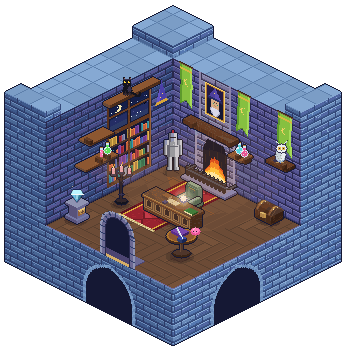
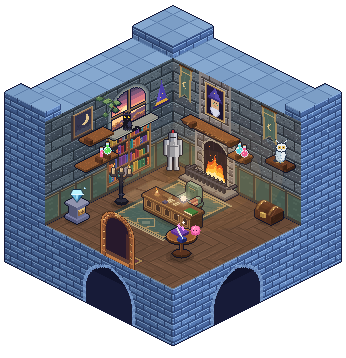
Restyle the main tower room to match Oakhaven Castle

Changed region(s): [[0.1156, 0.1536, 0.8671, 0.7682]]

diff --git a/src/game/scene.js b/src/game/scene.js
@@ -205,11 +205,11 @@ function brickFn(p, bw = 14, bh = 6) {
     return c;
   };
 }
-const palInL = { mortar: '#26274a', c: ['#3f437f', '#464b88', '#4d5393'], hi: '#5d63a3', lo: '#363a70' };
-const palInR = { mortar: '#2b2b52', c: ['#4d4a86', '#55528f', '#5e5a98'], hi: '#6f6ba8', lo: '#403d78' };
-const palChim = { mortar: '#3a3558', c: ['#6c668e', '#7a749a', '#837da3'], hi: '#9791b5', lo: '#58527a' };
+const palInL = { mortar: '#242d36', c: ['#3d4855', '#485460', '#515f6a'], hi: '#667480', lo: '#323e4a' };
+const palInR = { mortar: '#2a2e35', c: ['#4b5059', '#555d66', '#5e666e'], hi: '#727e86', lo: '#3a424d' };
+const palChim = { mortar: '#3e3636', c: ['#686266', '#797377', '#827c7e'], hi: '#a09897', lo: '#545055' };
 const palOut = { mortar: '#2e4472', c: ['#456296', '#4f70a4', '#5a7cb0'], hi: '#7da0cd', lo: '#3a5586' };
-const brL = brickFn(palInL), brR = brickFn(palInR), brC = brickFn(palChim);
+const brL = brickFn(palInL, 22, 10), brR = brickFn(palInR, 22, 10), brC = brickFn(palChim, 12, 7);
 const brOutL = brickFn(scalePal(palOut, .88)), brOutR = brickFn(scalePal(palOut, 1.08));
 const brOut = brickFn(palOut);
 
@@ -240,26 +240,23 @@ function shadedTowerFloor(a, b) {
   // Hetzelfde kruis als in het glas, geprojecteerd vanaf de linkerwand.
   const u = 44 + 2 * (b - 24 + a * .33);
   const z = 60 + (a - 4) * .85;
-  const inGlass = u >= 24 && u < 64 && z >= 60 && z < 90;
-  const frame = u >= 43 && u < 45 || z >= 74 && z < 76;
-  const sunset = inGlass && !frame ? .19 * (1 - a / 44) : 0;
+  const sunset = towerWindowGlass(u, z) ? .24 * (1 - a / 44) : 0;
   return tintFloor(color, 1 - (1 - shade) * .72, sunset);
 }
 
 function floorFn(a, b) {
-  if (a >= 12 && a < 30 && b >= 4 && b < 40) {                 // tapijt
-    const la = a - 12, lb = b - 4;
-    if (b >= 38.8) return (Math.floor(la * 1.5) & 1) ? '#e8d9a0' : '#bda86a';      // franje
-    if (la < 1.2 || la > 16.8) return '#5b1221';
-    if (la < 2 || la > 16) return '#d6a83c';
-    if (la < 3 || la > 15) return lb % 4 < 1 ? '#c99054' : '#862333';
-    if (lb < 1.2 || lb >= 33.5) return '#a97643';
-    const d = Math.abs(((lb % 8) + 8) % 8 - 4) + Math.abs(la - 9);
-    if (d < 3.2) return '#c43a4a';
-    if (d < 4.2) return '#7d1a28';
-    return hash(Math.floor(a * 2), Math.floor(b * 2)) > .9 ? '#a82838' : '#9c2030';
+  if (a >= 10 && a < 37 && b >= 7 && b < 42) {
+    const edge = Math.min(a - 10, 37 - a, b - 7, 42 - b);
+    if (b < 8.2 || b >= 40.8) return Math.floor(a * 2) % 2 ? '#baa47c' : '#8b795d';
+    if (edge < 1.4) return '#3c4441';
+    if (edge < 2.15) return '#ad9160';
+    if (edge < 3.25) return (Math.floor(a * 2) + Math.floor(b * 2)) % 5 === 0 ? '#a0845d' : '#596455';
+    const diamond = Math.abs(a - 23.5) + Math.abs((b - 7) % 12 - 6);
+    if (Math.abs(diamond - 4.25) < .45) return '#ae9468';
+    if (diamond < 2) return '#758171';
+    return hash(Math.floor(a * 2), Math.floor(b * 2)) > .81 ? '#53685f' : '#4b625a';
   }
-  if (b >= N - .8 || a >= N - .8) return '#6a6aa0';  // voorrand
+  if (b >= N - .8 || a >= N - .8) return '#747e87';
   const width = 4, length = 4;
   const column = Math.floor(a / width), row = Math.floor(b / width);
   const phase = (column + row) % (length * 2);
@@ -301,8 +298,8 @@ function facadeFn(br, span) {
 }
 
 /* ---------- hout / boekenkast / raam ---------- */
-const woodEdge = (u, z) => (z >= 90 || (u === 22 && z > 6)) ? '#9a6038' : (hash(u, 3) > .8 ? '#6a3c22' : '#5c331d');
-const woodMid = (u, z) => (hash(u >> 1, z) > .85 ? '#744327' : '#66391f');
+const woodEdge = (u, z) => (u === 22 || z === 7) ? '#9b704c' : (hash(u, z >> 2) > .8 ? '#755138' : '#674630');
+const woodMid = (u, z) => (hash(u >> 1, z) > .85 ? '#835c3f' : '#6f4b34');
 const bookCols = ['#8c2f39', '#2f6e4f', '#3b4f9a', '#b08a3a', '#6a3a8a', '#c0603a', '#2a7a8a', '#7a7a8e'];
 const bookRows = [];
 for (let r = 0; r < 4; r++) {
@@ -317,10 +314,13 @@ for (let r = 0; r < 4; r++) {
 }
 function bookFn(u, z) {
   const r = Math.floor((z - 8) / 12), lz = (z - 8) - r * 12;
-  if (lz < 2) return '#5a3320';
+  if (lz < 2) return lz === 1 ? '#966846' : '#62412e';
   const b = bookRows[r] && bookRows[r][u];
-  if (b && lz - 2 < b.h) return b.first ? sh(b.c, 1.3) : ((lz - 2) === b.h - 1 ? sh(b.c, 1.2) : b.c);
-  return '#1d1830';
+  if (b && lz - 2 < b.h) {
+    if (!b.first && (lz === 4 || lz === b.h) && hash(u >> 1, r) > .65) return '#af8f62';
+    return b.first || lz === b.h + 1 ? sh(b.c, 1.14) : sh(b.c, .84);
+  }
+  return '#28262c';
 }
 function hatFn(u, z) {
   const hu = u - 11;
@@ -336,26 +336,51 @@ function hatFn(u, z) {
   if (z === 87 && hu === 0) return '#222';
   return null;
 }
+
+function towerWindowArch(u, z) {
+  return Math.hypot(u - 44, Math.max(0, z - 76));
+}
+
+function towerWindowCross(u, z) {
+  return u >= 43 && u < 45 || z >= 72 && z < 74;
+}
+
+function towerWindowGlass(u, z) {
+  return z >= 60 && towerWindowArch(u, z) < 18 && !towerWindowCross(u, z);
+}
+
+function towerPanel(u, z) {
+  if (z >= 28) return null;
+  if (z < 3 || z === 25 || z >= 27 || u % 16 < 2) return '#433d36';
+  if (z === 26 || u % 16 === 2) return '#766b53';
+  return hash(u >> 2, z >> 1) > .86 ? '#4e6257' : '#46594f';
+}
+
 function leftFn(u, z) {
-  if (u >= 22 && u < 66 && z >= 6 && z < 92) {
-    if (u < 24 || u >= 64 || z < 8 || z >= 90) return woodEdge(u, z);
-    if (z >= 56 && z < 60) return woodMid(u, z);
-    if (z >= 60) {
-      if ((u >= 43 && u < 45) || (z >= 74 && z < 76)) return woodMid(u, z);
-      return null;                                  // glas (hier komt de hemel doorheen)
+  if (z >= 60) {
+    const arch = towerWindowArch(u, z);
+    if (arch < 18) return towerWindowCross(u, z) ? (u === 43 || z === 73 ? '#967852' : '#614832') : null;
+    if (arch < 22) {
+      if (arch >= 21 || z % 7 === 0 && z <= 76) return '#35404a';
+      if (arch < 19) return '#8e928a';
+      return arch >= 20 ? '#606d76' : '#717f86';
     }
+  }
+  if (u >= 22 && u < 66 && z >= 6 && z < 60) {
+    if (u < 24 || u >= 64 || z < 8) return woodEdge(u, z);
+    if (z >= 56 && z < 60) return woodMid(u, z);
     if (u >= 43 && u < 45) return woodMid(u, z);
     return bookFn(u, z);
   }
   const h = hatFn(u, z); if (h) return h;
-  return towerWallStone(brL, u, z);
+  return towerPanel(u, z) ?? towerWallStone(brL, u, z);
 }
 
 /* ---------- haard / schoorsteen / portret ---------- */
 const soot = (u, z) => (((u + (((z >> 3) & 1) * 4)) % 8 === 0) ? '#221829' : '#17111f');
 function portraitFn(u, z) {
   if (u < 34 || u >= 50 || z < 66 || z >= 94)
-    return (u === 32 || u === 51 || z === 64 || z === 95) ? '#f3cf6a' : '#b17a24';
+    return (u === 32 || u === 51 || z === 64 || z === 95) ? '#caaa72' : '#8d6744';
   const pu = u - 34, pz = z - 66, cx = 7.5, d = Math.abs(pu - cx);
   if (pz >= 18 && pz < 28) {
     const hw = (27.5 - pz) * .55 + .5;
@@ -370,22 +395,23 @@ function portraitFn(u, z) {
   return pz > 14 ? '#241a44' : '#1a1330';
 }
 const fireOpen = (u, z) => {
-  if (u < 30 || u >= 54 || z >= 40) return false;
-  const du = Math.abs(u - 42), zm = du <= 8 ? 40 : 40 - (du - 8) * 2.5;
-  return z < zm;
+  return Math.hypot(u - 42, Math.max(0, z - 28)) < 12;
 };
 function rightFn(u, z) {
   if (fireOpen(u, z)) return soot(u, z);
   if (u >= 22 && u < 62 && z < 54) {
-    if (u < 24 || u >= 60 || z >= 52) return '#9a94b8';
+    if (u < 24 || u >= 60 || z >= 52) return '#96908b';
+    if (fireOpen(u + 2, z) || fireOpen(u - 2, z) || fireOpen(u, z - 2)) {
+      return (u + z) % 7 === 0 ? '#4c4546' : '#a49a8d';
+    }
     return brC(u, z);
   }
   if (u >= 26 && u < 58 && z >= 54) {
     if (u >= 32 && u < 52 && z >= 64 && z < 96) return portraitFn(u, z);
-    if (u < 28 || u >= 56) return '#8c86ac';
+    if (u < 28 || u >= 56) return '#888280';
     return brC(u, z);
   }
-  return towerWallStone(brR, u, z);
+  return towerPanel(u, z) ?? towerWallStone(brR, u, z);
 }
 
 function towerWallStone(brick, u, z) {
@@ -2227,6 +2253,10 @@ function buildStatic(sg, room, doorStyle) {
   if (room !== rooms.hall) box(sg, -T, depth - 8, WH, T, 8, 10, mer);
   wallR(sg, depth, -2 * T, 2 * width, -F, WH, facadeFn(brOutL, width));
   wallL(sg, width, openHallEntrance ? 0 : -2 * T, 2 * depth, -F, WH, facadeFn(brOutR, depth));
+  if (room === rooms.tower) {
+    drawWallIvy(sg, [[0, 32.5, 21]]);
+    drawFramedPaintings(sg, [[wallL, [[80, 72, 20, 24, 'moon', ['#b6956a', '#856348', '#574337']]]]]);
+  }
   if (library) {
     drawReadingWindow(sg);
     box(sg, 0, 33, 26, 4, 21, 2.5, woodC('#89654c'));
@@ -2297,12 +2327,19 @@ function buildFront() {
   const iron = flat('#4a4a5a', '#2e2e3c', '#222230');
 
   // haard
-  box(g, 10, 0, 0, 22, 6, 2, flat('#8d88b0', '#6c678f', '#58537a'));
+  const hearthStone = flat('#908882', '#72676a', '#605b60');
+  box(g, 9.5, 0, 0, 23, 6.5, 1.2, flat('#6e6664', '#544c50', '#493f48'));
+  box(g, 10, 0, 1.2, 22, 6, .8, hearthStone);
+  for (const a of [14, 20, 26]) line(g, ...P(a, 4.5, 2), ...P(a, 6, 2), '#65585a');
   // schoorsteenmantel + consoles
   box(g, 9, 0, 52, 24, 4, 4, woodD);
   box(g, 8.75, 0, 55, 24.5, 4.5, 1, wood);
   wallR(g, 4, 18, 66, 52, 54, (u, z) =>
     z === 53 && hash(u >> 1, z) > .32 ? '#a67448' : '#503123');
+  for (const a of [11, 21, 31]) {
+    const [x, y] = P(a, 4.1, 53);
+    dot(g, x, y, '#b48757');
+  }
   box(g, 10.5, 0, 48, 1.6, 2.5, 4, woodD); box(g, 29.5, 0, 48, 1.6, 2.5, 4, woodD);
 
   // ijzeren haardscherm
@@ -2409,7 +2446,8 @@ function buildFront() {
   [x, y] = P(2.6, 38.4, 46); flask(g, x, y, '#ff6fa8', 'tube');
 
   // Vensterbank en tussenplank voor de kat.
-  box(g, 0, 10, 92, 3.5, 25, 3, wood);
+  box(g, 0, 11, 58, 3.5, 22, 2, flat('#9c998e', '#696b68', '#7c817c'));
+  line(g, ...P(3.55, 12, 60), ...P(3.55, 32, 60), '#b4ad98');
   box(g, 0, 35, 68, 5.5, 12, 2, wood);
   box(g, 0, 43, 64, 3, 1.5, 4, woodD);
 
@@ -2424,10 +2462,10 @@ function buildFront() {
     rect(g, bx - 1, by - 24, 2, 22, '#23232f'); dot(g, bx + 1, by - 20, '#3c3c4e'); ell(g, bx, by - 8, 2, 1, '#3c3c4e');
     line(g, bx, by - 22, bx - 8, by - 28, '#23232f'); line(g, bx, by - 22, bx + 8, by - 28, '#23232f');
     line(g, bx, by - 22, bx, by - 30, '#23232f');
-    for (const [dx, ty] of [[-8, by - 28], [0, by - 30], [8, by - 28]]) {
+    for (const [dx, ty, height, lit] of [[-8, by - 28, 6, true], [0, by - 30, 4, false], [8, by - 28, 5, true]]) {
       rect(g, bx + dx - 2, ty, 5, 2, '#2c2c3a');
-      rect(g, bx + dx - 1, ty - 6, 3, 6, '#e9a4b8'); dot(g, bx + dx - 1, ty - 6, '#fbd0dc'); dot(g, bx + dx + 1, ty - 3, '#c9708a');
-      cand.push([bx + dx, ty - 7]);
+      drawHallCandleWax(g, bx + dx, ty, height);
+      if (lit) cand.push([bx + dx, ty - height - 2]);
     } }
 
   store(40, t => {
@@ -2678,7 +2716,7 @@ function drawLibraryLights(t, lanterns = libraryLanterns) {
 /* ---------- animaties ---------- */
 // Zelfde herfstlucht als in het leesraam en de potionkamer.
 function drawSky() {
-  wallL(ctx, 0, 24, 64, 60, 90, (u, z) => autumnSunset(u + 1, (z - 60) / 29));
+  wallL(ctx, 0, 26, 62, 60, 94, (u, z) => towerWindowGlass(u, z) ? autumnSunset(u + 1, (z - 60) / 34) : null);
 }
 
 function windowPixels(paint, start, bottom, inGlass) {
@@ -2732,11 +2770,9 @@ function drawRoomWindowLife(t) {
       drawWindowLeaves(t, (x, y, color) => pixel(center - 13 + x, y, color), 27, 67, 6 + index);
     }
   } else if (currentRoom === rooms.tower) {
-    const pixel = windowPixels(wallL, 24, 60, (u, z) =>
-      u >= 24 && u < 64 && z >= 60 && z < 90 &&
-      !(u >= 43 && u < 45) && !(z >= 74 && z < 76));
-    drawWindowBirds(t, pixel, 40, 29, 1);
-    drawWindowLeaves(t, pixel, 40, 29, 1);
+    const pixel = windowPixels(wallL, 26, 60, towerWindowGlass);
+    drawWindowBirds(t, pixel, 36, 34, 1);
+    drawWindowLeaves(t, pixel, 36, 34, 1);
   } else if (currentRoom === rooms.library) {
     const pixel = windowPixels(wallL, 70, 31, readingWindowGlass);
     drawWindowBirds(t, pixel, 35, 53, 2);
@@ -2763,22 +2799,22 @@ function drawRoomWindowLife(t) {
 
 // banieren
 function banner(t, u0, w, phase) {
-  const zt = 102, zb = 62;
+  const zt = 99, zb = 67;
   for (let u = u0 - 1; u < u0 + w + 1; u++) { pxR(ctx, u, zt + 1, '#3a2414'); pxR(ctx, u, zt, '#6b4224'); }
   for (let z = zt - 1; z >= zb; z--) {
     const k = (zt - z) / (zt - zb), sw = Math.round(Math.sin(t * 1.7 + phase + k * 1.6) * k * 1.8);
     for (let u = 0; u < w; u++) {
       const zbot = zb + Math.round((w / 2 - Math.abs(u + .5 - w / 2)) * .9);
       if (z < zbot) continue;
-      let c = u < 2 ? '#5d9a2c' : u >= w - 2 ? '#a6dc5a' : '#86c040';
-      if (z <= zt - 4 && z >= zt - 5) c = '#d9b640';
-      if (z === zbot) c = '#4f8a26';
+      let c = u < 2 || u >= w - 2 ? '#a38a5d' : u % 5 === 0 ? '#586d62' : '#4e645a';
+      if (z === zt - 5) c = '#b69a66';
+      if (z === zbot) c = '#91805b';
       pxR(ctx, u0 + u + sw, z, c);
     }
     // maansikkel
     if (z >= zt - 20 && z <= zt - 14) {
       const m = u0 + Math.floor(w / 2) + sw, dz = z - (zt - 17);
-      for (let du = -3; du <= 3; du++) if (du * du + dz * dz <= 9 && (du - 1) * (du - 1) + dz * dz > 5) pxR(ctx, m + du, z, '#f0d060');
+      for (let du = -3; du <= 3; du++) if (du * du + dz * dz <= 9 && (du - 1) * (du - 1) + dz * dz > 5) pxR(ctx, m + du, z, '#d9be84');
     }
   }
 }
@@ -2829,7 +2865,7 @@ function flame(x, y, t, seed) {
   dot(ctx, x, y, '#fff0a0'); dot(ctx, x, y - 1, '#ffe27a');
   dot(ctx, x + sw, y - 2, '#ffb030'); if (tall) dot(ctx, x + sw, y - 3, '#ff7a20');
 }
-const CAT_PERCHES = [[2.6, 25.5, 95], [3.5, 39, 70], [3.5, 45, 46], [3.5, 39, 70]];
+const CAT_PERCHES = [[2.6, 25.5, 60], [3.5, 39, 70], [3.5, 45, 46], [3.5, 39, 70]];
 const CAT_REST = 7, CAT_JUMP = .8;
 const CAT_FUR = '#14141f', CAT_LIGHT = '#363655', CAT_PAW = '#28283b';
 
@@ -4743,7 +4779,7 @@ function frame(ms) {
     requestAnimationFrame(frame);
     return;
   }
-  banner(t, 7, 12, 0); banner(t, 65, 12, 1.7); banner(t, 105, 14, 3);
+  banner(t, 7, 12, 0); banner(t, 89, 14, 3);
   drawPortrait(t);
   drawFire(t, dt);
   drawRoomOccupants(t, dt);
